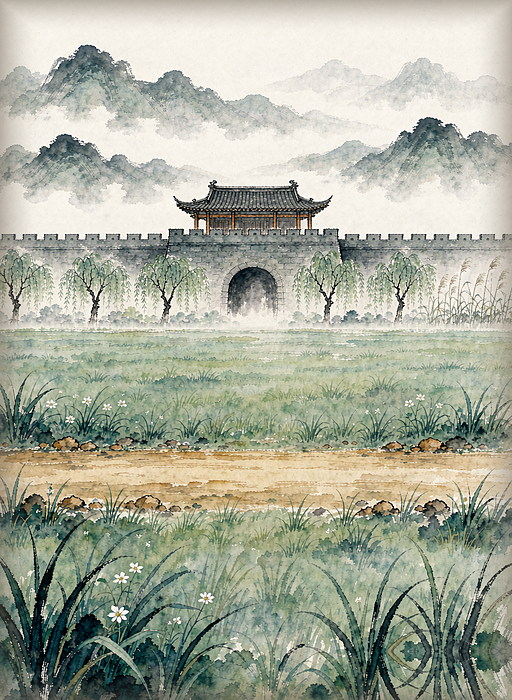
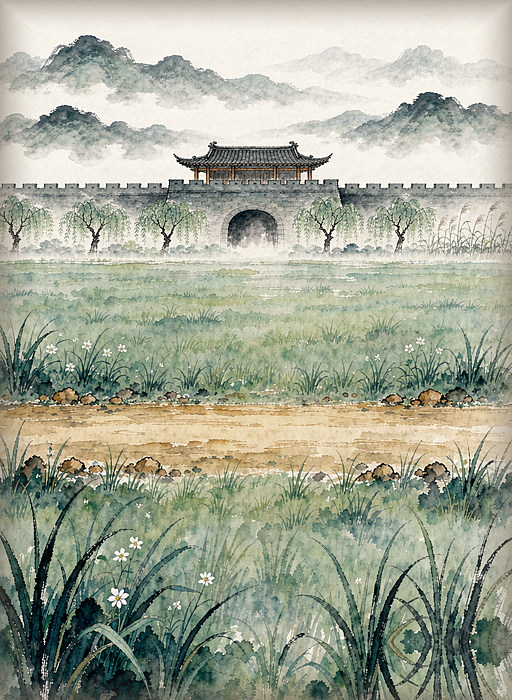
地平线下压到 36%：修后排怪物站在地平线以上的问题
实机量出的约束：战斗单位 y 是面板内写死的绝对像素，4 排阵型
TOP78/LEADER174/MEMBER270/BOTTOM366，脚底约 wrap.y+208，
即 626~918。面板可见下沿 930。地平线一旦超过「二排脚底 722」
后排就会飘在地平线以上。→ 地平线必须 ≤38%，取 36% 留余量。

- 两张图重新按 36% 生成（草地从 36% 铺到底，横向土路完整露出）
- build_horizontal_map.py 的 HORIZON_TARGET 从 0.45 改为 0.36，并写清推导过程

diff --git a/tools/build_horizontal_map.py b/tools/build_horizontal_map.py
@@ -20,10 +20,15 @@ import numpy as np
 from PIL import Image, ImageFilter
 
 OUT_W, OUT_H = 512, 700
-HORIZON_TARGET = 0.45          # 地平线在成图中的位置（0~1）
-# 0.40 的依据：战场面板铺满 y=270~1275，但玩家真正能看的是 270~930（下面被战报框/导航盖住），
-# 而全图 512x700 基本整张可见。所以地平线放 45% 时，地面从 45% 一直铺到画面底，
-# 露出 45%~66% 这 21% 的纵深带走位，和原来地牢图（地平线约 36%）是一个量级。
+HORIZON_TARGET = 0.36          # 地平线在成图中的位置（0~1）
+# 0.36 的依据（实机量出来的，别再往上调）：
+#   战斗单位的 y 是面板内写死的绝对像素，4 排阵型纵向跨度 288px：
+#     后排 TOP 78 / 二排 LEADER 174 / 前排 MEMBER 270（玩家宠物在这） / 最前 BOTTOM 366
+#   脚底 ≈ wrap.y + 208（96px 精灵 + 18 偏移 + 名字条余量），即脚底 626~918。
+#   面板全局 y=340 起、可见下沿 930。地平线一旦高于「二排脚底 722」，
+#   后排怪物就会飘在地平线以上（站在雾里/城墙上）。
+#   → 地平线必须 ≤ (722-340)/1005 ≈ 38%。取 36% 留 20px 余量。
+#   同时 BOTTOM 脚底 918 不会被战报框（930）切到脚。
 SEAM_FEATHER = 3               # 接缝羽化像素，避免一条硬边
 
 
